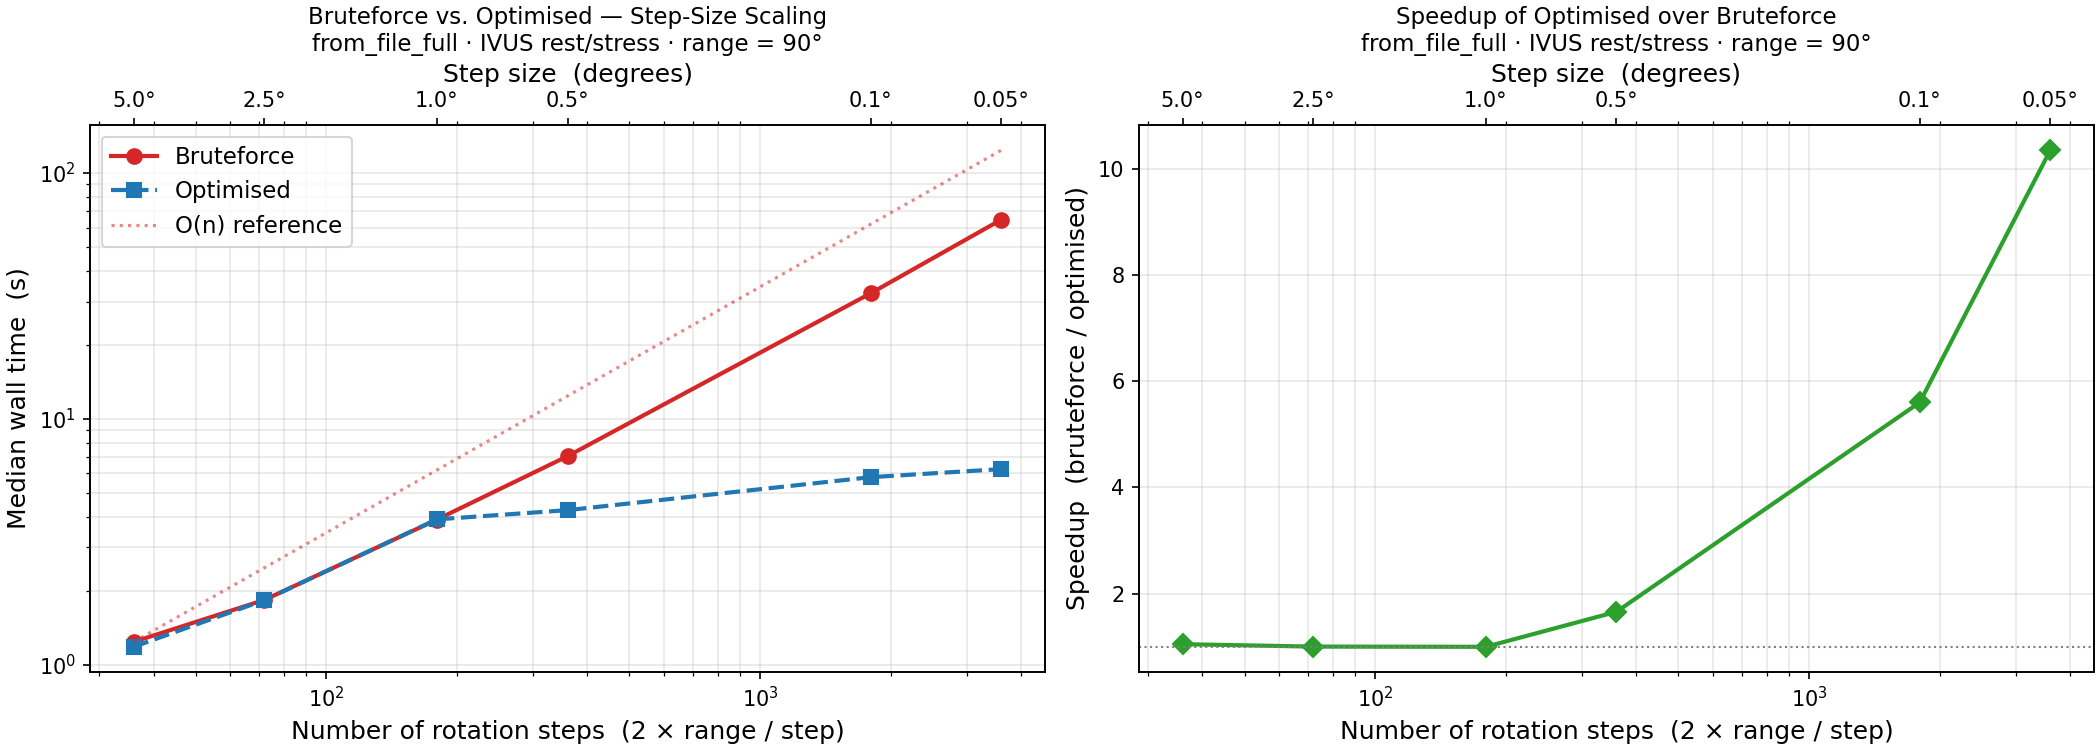
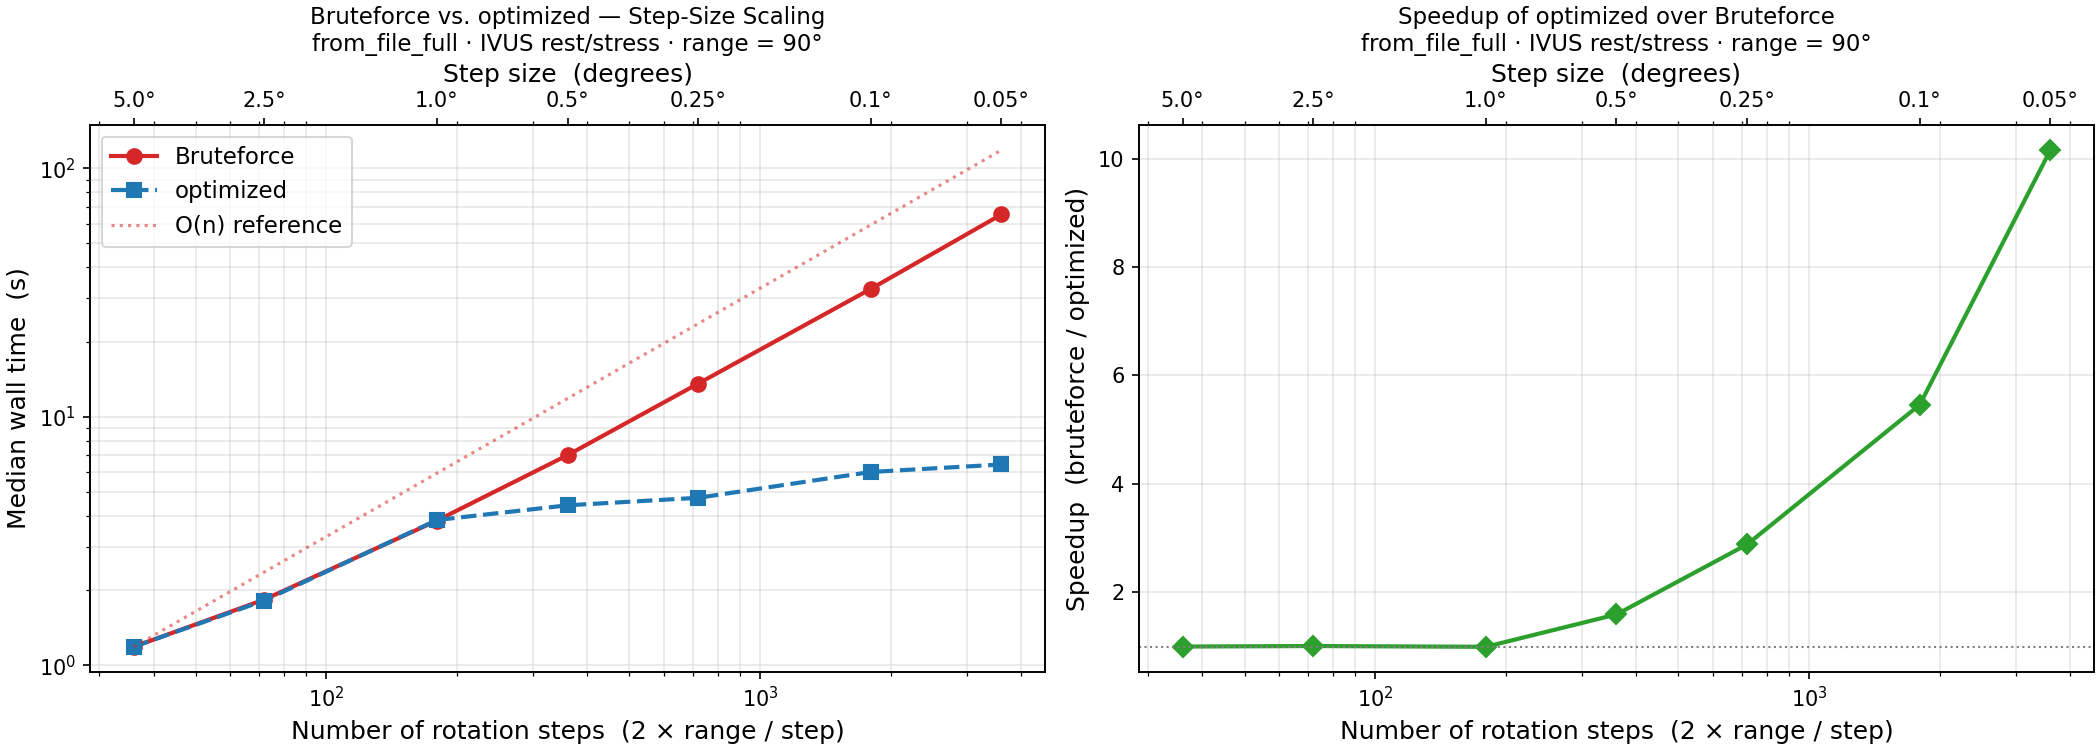
update paper according to reviews

diff --git a/benchmarks/benchmark_bruteforce_stepsize.py b/benchmarks/benchmark_bruteforce_stepsize.py
@@ -27,7 +27,7 @@ INPUT_AB = str(DATA_ROOT / "ivus_rest")
 INPUT_CD = str(DATA_ROOT / "ivus_stress")
 RESULTS_DIR = Path(__file__).parent / "results"
 
-STEP_SIZES: list[float] = [5.0, 2.5, 1.0, 0.5, 0.1, 0.05]
+STEP_SIZES: list[float] = [5.0, 2.5, 1.0, 0.5, 0.25, 0.1, 0.05]
 RANGE_DEG: float = 90.0
 REPEATS: int = 3
 

diff --git a/paper/paper.md b/paper/paper.md
@@ -46,53 +46,47 @@ bibliography: bibliography.bib
 
 Coronary artery anomalies (CAAs) and coronary artery disease (CAD) require precise morphological and functional assessment for diagnosis and treatment planning. Cardiac computed tomography angiography (CCTA) provides a comprehensive 3D coronary anatomy but lacks the sub-millimeter resolution and dynamic tissue detail available from intravascular imaging, such as intravascular ultrasound (IVUS) and optical coherence tomography (OCT). 
 
-The `multimodars` package is a general-purpose toolkit that registers high-resolution intravascular pullbacks to CCTA-derived centerlines, producing locally enhanced fusion 3D vessel representations. Developed initially to quantify dynamic lumen changes in CAAs, the toolkit produces high-fidelity models suitable for visualization, geometric analysis, and patient-specific modelling. It implements four alignment paradigms (full, double-pair, single-pair, single) to compare pullbacks acquired under different haemodynamic states (e.g., rest vs. pharmacologic stress) or at different clinical timepoints (e.g., pre- vs. post-stenting). `Multimodars` targets deterministic, reproducible multimodal fusion for both specialized CAA research and general CAD applications [@stark2025true].
+The `multimodars` package is a general-purpose toolkit that registers high-resolution intravascular pullbacks to CCTA-derived centerlines, producing locally enhanced fusion 3D vessel representations. Developed initially to quantify dynamic lumen changes in CAAs, the toolkit produces high-fidelity models suitable for visualization, geometric analysis, and patient-specific modeling. It implements four alignment paradigms (full, double-pair, single-pair, single) to compare pullbacks acquired under different hemodynamic states (e.g., rest vs. pharmacologic stress) or at different clinical timepoints (e.g., pre- vs. post-stenting). `Multimodars` targets reproducible multimodal fusion for both specialized CAA research and general CAD applications, producing quantitative lumen metrics (minimum lumen area, stenosis fraction, elliptic ratio, per-frame deformation) and optional interpolated deformation animations alongside the 3D models.
 
 # Statement of Need
 
 Building reliable 3D coronary models requires combining complementary imaging modalities. Intravascular imaging offers exceptional local resolution but lacks whole-vessel context and 3D orientation. CCTA provides the global 3D geometry but suffers from limited spatial resolution and artifacts like blooming. `Multimodars` fills a critical gap for researchers in **cardiac imaging**, **interventional cardiology**, and **biomedical engineering** who require high-fidelity lumen models for:
 
 * Automated quantification of vessel deformation under stress.
-* Computational Fluid Dynamics (CFD) and Fluid-Structure Interaction (FSI) simulations.
-* Digital twin solutions.
+* Patient-specific Computational Fluid Dynamics (CFD) and Fluid-Structure Interaction (FSI) simulations, which require high-fidelity lumen geometry unavailable from either modality alone [@tang2014; @kilic2020evolution].
+* Longitudinal and interventional comparisons (e.g., pre- vs. post-stenting) within a consistent registration framework.
+* Digital twin and 3D-printing workflows for biomechanical device testing.
 
-The package accepts CSV and NumPy inputs, including data formats produced by the [AIVUS-CAA](https://github.com/AI-in-Cardiovascular-Medicine/AIVUS-CAA) software [@stark2025automated], providing a standardized pipeline from raw image segmentation to final 3D fusion.
+The package accepts CSV and NumPy inputs, including data formats produced by the [AIVUS-CAA](https://github.com/AI-in-Cardiovascular-Medicine/AIVUS-CAA) software [@stark2025automated], providing a standardized pipeline from raw image segmentation to final 3D fusion. The bidirectional NumPy API additionally allows integration with any external segmentation tool.
 
-![Figure 1: Illustration of `multimodars` processing modes and their clinical use. The 'full' mode returns four geometry pairs to analyze rest and stress haemodynamics (rest pulsatile deformation; stress pulsatile deformation; stress-induced diastolic deformation; stress-induced systolic deformation). The 'double-pair' mode returns pulsatile deformation in rest and stress. 'Single-pair' compares any two states (e.g., pre-/post-stent). 'Single' aligns frames within one pullback. \label{fig:aim}](figures/Figure1.jpg){width=80%}
+![Figure 1: Illustration of `multimodars` processing modes and their clinical use. The 'full' mode returns four geometry pairs to analyze rest and stress hemodynamics (rest pulsatile deformation; stress pulsatile deformation; stress-induced diastolic deformation; stress-induced systolic deformation). The 'double-pair' mode returns pulsatile deformation in rest and stress. 'Single-pair' compares any two states (e.g., pre-/post-stent). 'Single' aligns frames within one pullback. A worked example of all four modes is available in the [intravascular notebook](https://github.com/yungselm/multimoda-rs/blob/main/docs/notebooks/intravascular_notebook.ipynb) included in the repository. \label{fig:aim}](figures/Figure1.jpg){width=80%}
 
 # State of the Field
 
-Prior research has established the clinical value of CCTA/intravascular fusion [@van20103d; @wu20203d; @ilic2025comprehensive; @bourantas2013new; @boogers2012automated], but several barriers remain:
-1. **Proprietary Constraints**: Most existing fusion solutions are tied to proprietary vendor hardware or closed-source commercial workstations, limiting academic transparency.
-2. **Multi-state Gap**: No existing open-source toolkit is specifically tailored for **multi-state** analysis (comparing rest vs. stress or pre- vs. post-intervention states) while maintaining a deterministic alignment across pullbacks.
-
-## Build vs. Contribute Justification
-While packages like `trimesh` or `SimpleITK` provide general mesh and registration utilities, they do not offer the domain-specific coronary alignment logic (e.g., cumulative rotation propagation to preserve vessel torsion) required for intravascular imaging. `Multimodars` was built as a standalone toolkit because existing registration libraries lack the specific coordinate mapping and multiscale search algorithms optimized for curvilinear cardiac centerlines.
+Prior research has established the clinical value of CCTA/intravascular fusion [@van20103d; @wu20203d; @bourantas2013new; @boogers2012automated; @kilic2020evolution], but two barriers persist. First, most existing fusion solutions are tied to proprietary vendor hardware or closed-source commercial workstations, limiting academic transparency; the closest open-source precedent, IVUSAngio [@doulaverakis2013], relies on biplane X-ray angiography rather than CCTA and provides no multi-state support. Second, no existing toolkit is specifically tailored for **multi-state** analysis—comparing rest versus pharmacologic stress or pre- versus post-intervention—while maintaining a consistent alignment across pullbacks. Published IVUS analyses of anomalous aortic origin of coronary arteries (AAOCA) quantify pulsatile deformation only under resting conditions [@formato2023]; extending such analyses to stress conditions requires the cross-state registration logic implemented in `multimodars`. While packages like `trimesh` or `SimpleITK` provide general mesh and registration utilities, they do not offer the domain-specific coronary alignment logic (e.g., cumulative rotation propagation to preserve vessel torsion, ellipticity-weighted inter-pullback harmonization, CCTA centerline morphing) required here.
 
 # Software Design
 
-`Multimodars` is built as a `maturin` project, wrapping a high-performance Rust core with a Python interface. 
-
-## Architectural Choices and Trade-offs
+## Architectural choices and trade-offs
 We chose **Rust** for the core backend to leverage its memory safety and hierarchical data parallelism (via the `Rayon` crate). This allows the toolkit to handle the significant computational load of multiscale angular searches across hundreds of image frames without the performance limitations found in pure Python implementations. 
 
-The data model uses a compact typed structure (PyContourPoint, PyContour, PyGeometry) that maps losslessly to (N,4) NumPy arrays (frame_id, x, y, z). This choice balances the performance of low-level data structures with the usability of the Python data science ecosystem.
+The data model uses a compact typed structure (PyContourPoint, PyContour, PyFrame, PyGeometry) that maps losslessly to (N,4) NumPy arrays (e.g., frame_id, x, y, z). This choice balances the performance of low-level data structures with the usability of the Python data science ecosystem.
 
-![Figure 2: Internal data model and (N,4) NumPy mapping used by `multimodars` (frame_id, x, y, z). \label{fig:data}](figures/Figure2.jpg){width=80%}
+![Figure 2: Overview of the intravascular module. Top: Input data in (N,4) format (frame\_id, x, y, z) is accepted from CSV files or arbitrary NumPy arrays. Middle: Data are organized into a four-level hierarchy — PyGeometryPair → PyGeometry → PyFrame → PyContour → PyContourPoint. Bottom: Frames are aligned intra-pullback within each PyGeometry and inter-pullback within a PyGeometryPair; the resulting geometry can be registered to a CCTA centerline and exported as Wavefront OBJ files or converted back to NumPy arrays. \label{fig:data}](figures/Figure2.jpg){width=80%}
 
-## Algorithms
+## Alignment and fusion algorithms
 
-Alignment is a two-stage pipeline producing spatially and rotationally consistent mappings both within pullbacks (intra-pullback) and between pullbacks (inter-pullback). It further aligns 3D models with a CCTA derived centerline and adjusts the CCTA mesh to match the dimensions of the intravascular 3D model.
+Alignment is a two-stage pipeline producing spatially and rotationally consistent mappings both within pullbacks (intra-pullback) and between pullbacks (inter-pullback). It further registers 3D models with a CCTA-derived centerline, morphs the CCTA mesh to match intravascular dimensions, and stitches the two surfaces together.
 
-- **Intra-pullback:** The proximal frame is the rotational reference. Sequentially, each proximal→distal neighbour is aligned by centroid translation and a rotation search minimizing a point-set distance derived from directed Hausdorff distances. Rotation employs a multiscale angular search (coarse → fine, e.g., 1° → 0.1° → 0.01°) with cumulative rotation propagation to preserve vessel torsion (See \autoref{fig:algo}). Naive brute-force complexity scales as $O(n \times \frac{R}{S} \times m^2)$ (n = frames, m = points per contour, R = angular range, S = step size). By fixing contour size (downsampling) and reducing the angular search via multiscale refinement, the pipeline attains effective complexity $O(n \times (R + c) \times m^2)$ for small S, making runtime less sensitive to step granularity while preserving alignment accuracy.
+- **Intra-pullback:** The proximal frame is the rotational reference. Sequentially, each proximal→distal neighbor is aligned by centroid translation and a rotation search minimizing a point-set distance derived from directed Hausdorff distances. Rotation employs a multiscale angular search (coarse → fine, e.g., 1° → 0.1° → 0.01°) with cumulative rotation propagation to preserve vessel torsion (See \autoref{fig:algo}). Naive brute-force complexity scales as $O(n \times \frac{R}{S} \times m^2)$ (n = frames, m = points per contour, R = angular range, S = step size); the multiscale refinement reduces this to an effective $O(n \times (R + c) \times m^2)$ for small step sizes, making runtime far less sensitive to angular resolution while preserving alignment accuracy.
 
-- **Inter-pullback and CCTA fusion:** Inter-pullback alignment harmonizes distal centroids, averages slice spacing to align z-coordinates, and applies a rigid rotation to minimize mean directed distances across corresponding frames; ellipticity-weighted similarity prioritizes non-round stenotic slices. 
+- **Inter-pullback:** Inter-pullback alignment harmonizes distal centroids, averages slice spacing to align z-coordinates, and applies a rigid rotation to minimize mean directed distances across corresponding frames; ellipticity-weighted similarity prioritizes non-round stenotic slices.
 
 - **CCTA-Centerline alignment:** The `multimodars` package implements a three-point (aortic-, cranial- and caudal direction) anatomical registration and a manual alignment mode. It additionally utilizes Hausdorff distances to CCTA mesh points for ambiguous anatomies: centerlines are resampled to contour spacing, centroids are translated to matched points, normals are aligned by cross-product computations, and an optional interpolated UV-mapped mesh is produced for visualization and downstream modeling.
 
-- **CCTA-labeling:** For normal coronary anatomy, CCTA mesh points are labeled using a rolling-sphere sweep along the coronary centerline. For CAAs, where the vessel may run very close to or within the aortic wall, this is followed by an occlusion-based cleanup: rays are cast from the aortic centerline toward the coronary centerline; ray–triangle intersections identify occluding aortic wall regions, and mesh points close to these surfaces are removed. This yields a deterministic and anatomically consistent coronary lumen representation.
+- **CCTA mesh fusion:** A CCTA STL surface mesh is labeled by propagating a rolling sphere along coronary centerlines to assign vertices to aorta, RCA, or LCA regions. For CAAs, where the intramural vessel runs within the aortic wall, a ray-casting occlusion step corrects systematic mislabeling: rays cast from the aortic centerline detect intersecting wall faces, and topologically connected coronary vertices are reclassified as aortic. The labeled mesh is then subdivided into proximal, anomalous, and distal sub-regions; each region is morphed radially along the local centerline normal to match the aligned intravascular lumen dimensions; and the replaced CCTA segment is excised to expose a boundary ring. The intravascular mesh is stitched to this ring with a triangulated patch, and the resulting surface is repaired and isotropically remeshed (via optional PyMeshLab).
 
-- **CCTA-border adjustments:** Given the higher resolution of intravascular imaging, the aligned intravascular anatomy is treated as the anatomical ground truth. CCTA dimensions are adjusted to fit the proximal and distal ends of the vessel. For CAAs, the aorta is additionally adjusted to match the measured intramural wall.
+Aligned pairs expose a `get_summary()` method returning minimum lumen area, maximum stenosis percent, stenosis length, and a per-frame table of lumen area and elliptic ratio for downstream analysis.
 
 ![Figure 3: Top left shows the initial labeling of the coronary arteries and aorta based on centerlines. In a second step the regions to be replaced are identified based on the aligned 3D intravascular model. In a last step the CCT proximal and distal borders can be adjusted to best match intravascular borders. \label{fig:labeling}](figures/Figure3.png){width=80%}
 
@@ -103,25 +97,29 @@ Rust (Rayon) provides hierarchical data parallelism: candidate rotation angles w
 A reproducible benchmark suite is included in the repository (`benchmarks/`) and documented in the package reference ([ReadTheDocs](https://multimoda-rs.readthedocs.io/en/latest/benchmark.html)). Key results on an Intel Xeon Gold 6234 (8 physical cores, 16 logical processors):
 
 - **Algorithm vs. brute-force:** the multiscale search outperforms exhaustive brute-force evaluation by **5.5×** at a 0.1° step size and **10.3×** at 0.05°, with the gap widening rapidly at finer resolutions as brute-force must evaluate every candidate angle.
-- **parallelization:** parallelizing at the angle-evaluation level (rather than the point-rotation level) provides sufficient rayon tasks to utilise cores effectively. Brute-force scales **6.5×** and the optimized search **4.2×** from 2 to 16 cores.
+- **Parallelization:** parallelizing at the angle-evaluation level (rather than the point-rotation level) provides sufficient rayon tasks to utilize cores effectively. Brute-force scales **6.5×** and the optimized search **4.2×** from 2 to 16 cores.
 - **Combined gain:** relative to brute-force at 2 cores, the optimized algorithm at 16 cores is **38.5×** faster, with algorithm choice and core count contributing multiplicatively.
 
 ![Figure 4: Multiscale intra-pullback alignment workflow (coarse-to-fine angular search and centroid propagation). \label{fig:algo}](figures/Figure4.jpg){width=80%}
 
 ## Implementation, reproducibility and usage
 
-The core is implemented in Rust and exposed to Python via PyO3; packaging uses `maturin` and the package is available on PyPI. The NumPy-centric API maps directly to (N,4) arrays; the project includes example notebooks, sample data (including [AIVUS-CAA](https://github.com/AI-in-Cardiovascular-Medicine/AIVUS-CAA) [@stark2025automated]) and CI tests. Documentation and tutorials are hosted on ReadTheDocs ([ReadTheDocs](https://multimoda-rs.readthedocs.io/en/latest/)).
+The package is built with `maturin` and available on PyPI. Output includes Wavefront OBJ files for intravascular meshes, STL section exports for downstream biomechanical simulation, and optional interpolated intermediate meshes for deformation animations. The project includes example notebooks, sample data, and CI tests; documentation and tutorials are hosted on ReadTheDocs ([ReadTheDocs](https://multimoda-rs.readthedocs.io/en/latest/)).
 
-# Research impact statement
+# Research Impact Statement
 
-`Multimodars` was motivated by the need to quantify dynamic lumen deformation in CAAs, where rest/stress and pulsatile comparisons are diagnostically critical. Deterministic, high-resolution fusion enables quantitative assessment of stress-induced deformation and supports patient-specific haemodynamic modeling. These methods also support longitudinal CAD analyses (e.g., pre-/post-stent). We successfully implemented this fusion approach to unveil a distinct compression pattern not visible in IVUS or CCTA alone, in a case of an 11 year old athlete with an right anomalous aortic origin of a coronary artery[@stark202611]. We hope to foster a research community that leverages `multimodars` to standardize multimodal coronary fusion and accelerate the development of personalized interventional or computational strategies.
+`Multimodars` was motivated by the need to quantify dynamic lumen deformation in CAAs, where rest/stress and pulsatile comparisons are diagnostically critical. High-resolution fusion enables quantitative assessment of stress-induced deformation and supports patient-specific hemodynamic modeling. We successfully implemented this fusion approach to unveil a distinct compression pattern not visible in IVUS or CCTA alone in a case of an 11-year-old athlete with an anomalous aortic origin of a coronary artery [@stark202611]. Beyond CAA, the `single-pair` mode supports general CAD workflows such as pre- vs. post-stenting lumen comparison, and the `single` mode enables standalone geometry reconstruction for any clinical pullback. We hope to foster a research community that leverages `multimodars` to standardize multimodal coronary fusion and accelerate the development of personalized interventional or computational strategies.
 
-# AI usage disclosure
+# Human Participants Research Policy
 
-No generative AI was used for architectural design or core algorithms. Generative AI was used for creating documentation and docstrings, bug fixing, and minor inline code changes.
-For this manuscript generative AI was only used for grammatical changes.
+The example data included in this repository originates from the NARCO study, a prospective clinical study investigating coronary artery anomalies. All data have been fully anonymized prior to inclusion. The study was conducted in accordance with the Declaration of Helsinki and received approval from the local ethics committee (Kantonale Ethikkommission Bern, KEK 2020-00841). All participants provided written informed consent. The study is registered with ClinicalTrials.gov (NCT04475289).
 
-# Acknowledgements
+# AI Usage Disclosure
+
+No generative AI was used for architectural design or core algorithms. Claude (Anthropic) and ChatGPT 4.1 (OpenAI) were used for creating documentation and docstrings, bug fixing, and minor inline code changes.
+For this manuscript these tools were only used for grammatical changes.
+
+# Acknowledgments
 
 None
 

diff --git a/paper/REVIEWER2.md b/paper/REVIEWER2.md
@@ -1,0 +1,48 @@
+We thank @richardkoehler for the detailed evaluation of our manuscript and the appreciation of our work. These were some very helpful suggestions which resulted in a great improvement of the codebase and manuscript.
+
+We changed the following:
+
+## Performance
+- [x] There is a performance claim in the paper on lines 102-104. There should be code, and ideally sample data to reproduce this claim: Empirical performance on a 16-core CPU: an OCT pullback with 280 frames and a rotation search range of ±3° (final accuracy 0.01°) saw alignment time reduced from 150𝑠 to 18𝑠 with the optimized multiscale search.
+
+*Thank you for this very helpful suggestion. I have now added a complete benchmark suite testing the algorithmic improvements and additionally the parallelization improvements. I additionally added a section in the docs highlighting these results. This focuses only on the alignment algorithms, since I didn't have the ideas/time to improve the labeling algorithms so far. Therefore I also highlighted this in the paper:*
+
+- Changed title from **Performance and parallelization** to **Alignment algorithm performance and parallelization**
+
+## General
+- [x] Scipy is missing as dependency for mm.label_geometry(), I think it needs to be added to ``pyproject.toml``
+
+*Added scipy to ``pyproject.toml``*
+
+- [x] I would suggest to use dependency-groups instead of optional-dependencies in pyproject.toml, since optional-dependencies are shipped with the package when you publish it, but dependency-groups are not. In your case, you have additional dependencies that do not need to be shipped, like docs and test. An example for the use of optional-dependencies would for example be if you wanted to install support for excel with pandas, in which case you would do: pip install "pandas[excel]". See here: https://packaging.python.org/en/latest/specifications/dependency-groups/
+
+- [x] Using dependency-groups you can also solve the problem of listing the dependencies that are necessary to run the example notebook, since common package and environment managers like uv use the dependency-group dev for these types of dependencies. The dev dependencies are installed by default when developing, but are like all dependency-groups not distributed with the package when publishing. So I would suggest listing the dependencies necessary for running the notebook (trimesh plotly scipy nbformat and ipykernel) in the group dev.
+
+*These two comments were very helpful. I was not yet familiar with the differences especially regarding shipping. I have now completely revised the ``pyproject.toml`` file leaving only pyglet and pymeshlab as optional dependencies. pyglet is used for debug plotting, while pymeshlab is only used for some improved mesh fixing. Since pymeshlab has a GPL license I wanted to leave this option to the user.*
+
+## Tutorials
+- [x] In general, it is not possible to follow the tutorials step-by-step, since for example not all the code necessary is included and there are sometimes changes in variable names. I therefore entirely agree with this comment by crnh:
+
+*Thank you very much for highlighting this. I completely agree that the notebooks caused the biggest issue so far. I really liked the suggestion by @crnh and therefore now provide the prerun notebooks directly on the documentation and added a CI pipeline to check that they run without error. I updated the complete documentation accordingly.*
+
+- [x] Remove tuple brackets from (0.0, 1.0, 2.0) here since this results in an error: contour_trsl = contour_rot.translate((0.0, 1.0, 2.0))
+
+*Removed the tuple brackets*
+
+## The examples zip folder
+- [x] Is there a reason the examples folder has to be downloaded separately and is not included as is in the repository? That would be very helpful.
+
+*I agree that this was a suboptimal design choice. The amount of data is not extensive enough to bloat the repository, therefore I now directly add it to the repo, and removed the pinned example.zip.*
+
+- [x]  By including the examples folder in the repository you can also write a unit test for the example notebook and make sure that it still runs through when you make any code changes to your library.
+
+*Again, I completely agree that this is a much more solid approach, not resulting in all these problems of not being able to run the examples. I have no added a CI test, that ensures the notebooks run without problems.*
+
+- [x]  The notebook ``ivus_to_centerline.ipynb`` yields the following error, since the folders output and unprocessed do not exist. I would suggest including the empty folders in the examples folder, or creating them on-the-fly with os.makedirs or similar: ValueError: string is not a file: 'output/unprocessed/dia_lumen.obj'
+
+*Thank you very much for this suggestion. I have now uploaded a new version for the ivus and the ccta notebooks to docs/notebooks, which are ensured to run by the CI pipeline.*
+
+## Human and animal research
+- [x] I think I didn't find any information on this but is the sample data (in the repo and the zip folder) real human data or synthetic data? Maybe I also overlooked that you elaborated on this somewhere, but of course data should follow the JOSS policies, so if it is not synthetic data I would recommend adding a small statement on the conformity of the data to your repository (and potentially the paper): https://joss.readthedocs.io/en/latest/policies.html#joss-policies.
+
+*Thank you for the thorough review of the policies. The example data originates from the NARCO study and has been fully anonymized. The study was conducted in accordance with the Declaration of Helsinki, with ethics approval from the Kantonale Ethikkommission Bern (KEK 2020-00841). All participants provided written informed consent, and the study is registered with ClinicalTrials.gov (NCT04475289). We have added a corresponding statement to the manuscript.*

diff --git a/docs/benchmark.rst b/docs/benchmark.rst
@@ -85,6 +85,12 @@ pool re-initialises from ``RAYON_NUM_THREADS``.
      - 5.9x
      - 4.20x
 
+.. figure:: ../benchmarks/results/cpu_scaling.png
+   :name: fig-benchmark-cpuscaling
+   :alt: Bruteforce vs. optimized alignment speedup across differnet cpu cores
+   :align: center
+   :width: 900px
+
 **Key observations**
 
 * Parallelizing the angle search inside ``search_range`` (rather than the